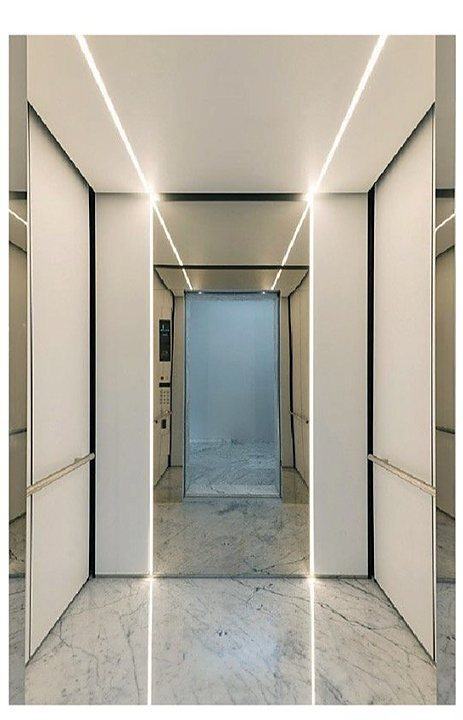
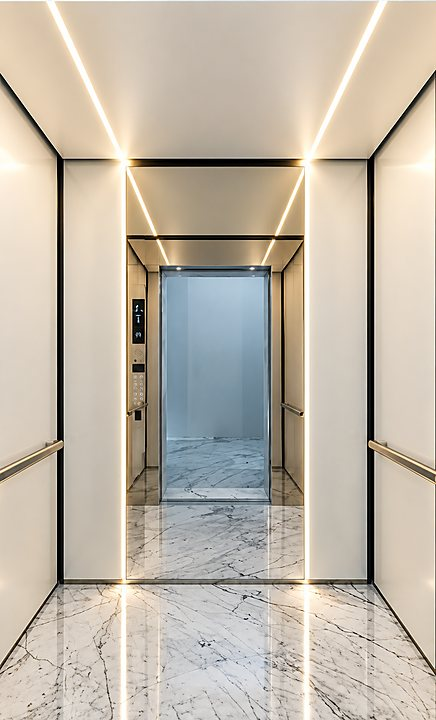
Cabins: add 043 goods elevator and 044 black/stainless; sharper 042
Claude-Session: https://claude.ai/code/session_012C1iCStZgq8DHpu4eMALEm

diff --git a/assets/products.js b/assets/products.js
@@ -45,7 +45,9 @@ window.MELSA_PRODUCTS={
   {id:"cabin_designs_01",code:"039",ar:"كابينة سوداء بألواح رخام بيج وسقف مخرّم",ext:"jpg",label:"Black cabin with beige stone panels and perforated ceiling"},
   {id:"cabin_designs_02",code:"040",ar:"كابينة ستانلس بخطوط ذهبية وسقف مزخرف",ext:"jpg",label:"Stainless cabin with gold strips and decorative ceiling"},
   {id:"cabin_designs_03",code:"041",ar:"كابينة بانوراما زجاج",ext:"jpg",label:"Panoramic glass cabin"},
-  {id:"cabin_designs_04",code:"042",ar:"كابينة بيضاء بإضاءة خطية وأرضية رخام",ext:"jpg",label:"White cabin with linear lighting and marble floor"}],
+  {id:"cabin_designs_04",code:"042",ar:"كابينة بيضاء بإضاءة خطية وأرضية رخام",ext:"jpg",label:"White cabin with linear lighting and marble floor"},
+  {id:"cabin_designs_05",code:"043",ar:"مصعد بضائع ستانلس بأرضية مضلعة",ext:"jpg",label:"Stainless goods elevator with chequer-plate floor"},
+  {id:"cabin_designs_06",code:"044",ar:"كابينة سوداء بستانلس وسقف سبوتات",ext:"jpg",label:"Black and stainless cabin with spotlight ceiling"}],
  buttons:[
   {id:"panel_buttons_02",ar:"زر دائري فضي بطريقة برايل",ext:"jpeg",label:"Silver round button with Braille",shape:"round",color:"#cdd1d5",ring:"#6d6f73",
    ai:"round brushed silver stainless push buttons, each with a wide flat silver flange ring, a thin grey illuminated outline ring, raised grey characters and Braille dots"},

diff --git a/sw.js b/sw.js
@@ -1,6 +1,6 @@
 // Melsa Elevators — offline support for the installed app.
 // Bump VERSION when you want every installed copy to refresh its cache.
-const VERSION = "melsa-v62";
+const VERSION = "melsa-v63";
 const SHELL = ["./", "./index.html", "./configurator.html", "./survey.html", "./contact.html", "./maintenance.html", "./catalog.html", "./clients.html", "./quote.html", "./about.html", "./consulting.html", "./assets/site.css", "./assets/site.js", "./assets/site-data.js", "./assets/products.js", "./manifest.webmanifest", "./assets/logo.png", "./assets/logo-mark.png", "./icons/icon-192.png", "./assets/intro/m.png", "./assets/intro/tri.png", "./assets/intro/red.png", "./assets/intro/txt.png"];
 
 self.addEventListener("install", (e) => {
